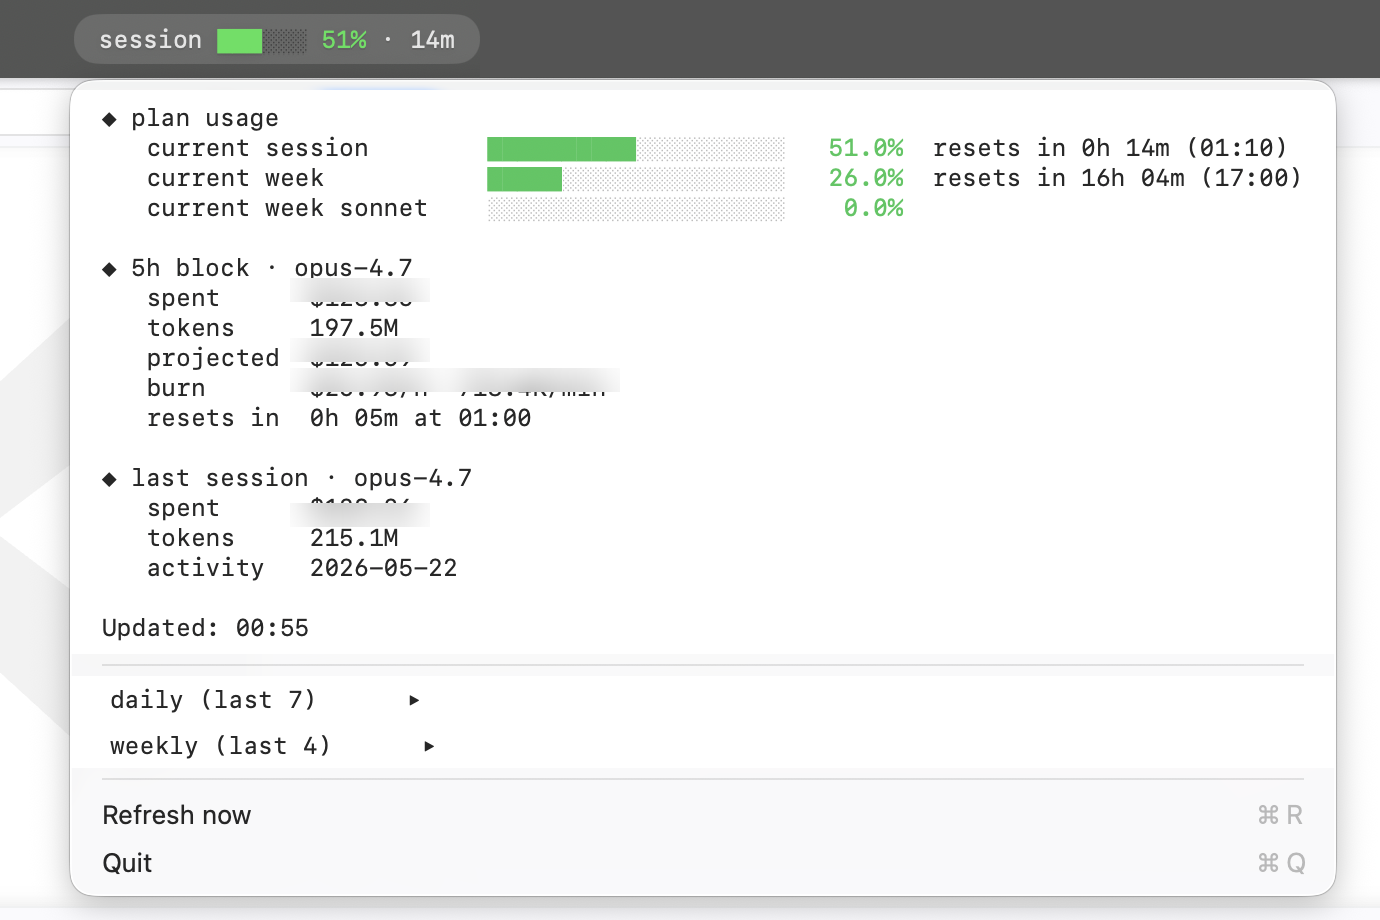
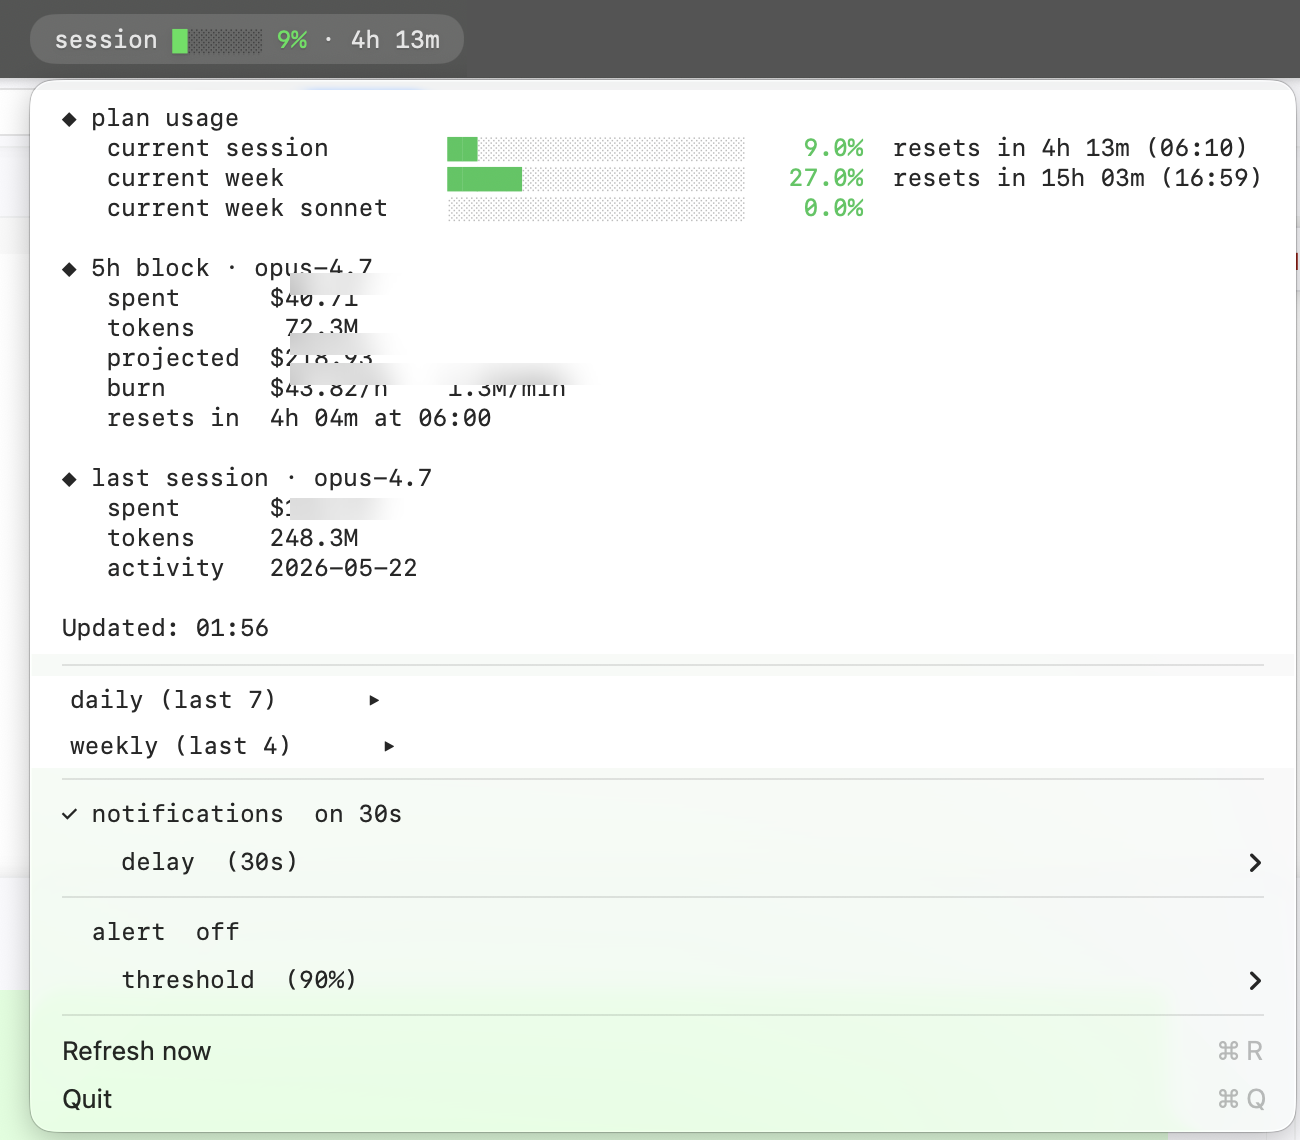
claude-usage-bar: stop committing the binary, distribute via Releases
The pre-built universal binary was bloating git history (one revision
per code change, ~300KB each) and not really reviewable in diffs.
Drop it from the repo and add it to .gitignore.

install.sh now decides between two paths at runtime:
- if `swiftc` is on PATH, build a universal binary from source
- otherwise, download the artifact from the latest GitLab Release of
  this repo via curl

Both --build and --download are exposed as explicit overrides for
power users / CI.

Bumped README and Requirements list to match: the user picks either
Xcode Command Line Tools (build) or just curl (download). Refreshed
the screenshot to show the corrected status-bar formatting (4h 13m
instead of 259m) and the new notifications/alert toggles.

Changed region(s): [[0.0, 0.0304, 1.0, 1.0], [0.2154, 0.8522, 0.2769, 0.8826], [0.2769, 0.7609, 0.3077, 0.7913]]

diff --git a/main.swift b/main.swift
@@ -186,12 +186,12 @@ class App: NSObject, NSApplicationDelegate, NSMenuDelegate {
             title.append(plain("session "))
             title.append(makeBar(pct: pct, width: 6))
             title.append(coloredText(String(format: " %.0f%%", pct), color: barColor(pct)))
-            title.append(plain(String(format: " · %dm", m)))
+            title.append(plain(" · " + formatResetMinutes(m)))
             statusItem.button?.attributedTitle = title
         } else if let a = active {
             let cost = a["costUSD"] as? Double ?? 0
             let remMin = (a["projection"] as? [String: Any])?["remainingMinutes"] as? Int ?? 0
-            statusItem.button?.title = String(format: "$%.2f · %dm", cost, remMin)
+            statusItem.button?.title = String(format: "$%.2f · ", cost) + formatResetMinutes(remMin)
         } else {
             statusItem.button?.title = "claude —"
         }
@@ -539,6 +539,13 @@ class App: NSObject, NSApplicationDelegate, NSMenuDelegate {
     func formatLocalTime(iso: String) -> String? {
         guard let d = Self.isoIn.date(from: iso) ?? ISO8601DateFormatter().date(from: iso) else { return nil }
         let f = DateFormatter(); f.dateFormat = "HH:mm"; return f.string(from: d)
+    }
+
+    /// Human-friendly "Xh YYm" / "Nm" for reset countdown. Used in the
+    /// status bar title to keep it readable when the window has hours left.
+    func formatResetMinutes(_ m: Int) -> String {
+        if m < 60 { return "\(m)m" }
+        return String(format: "%dh %02dm", m / 60, m % 60)
     }
 
     func minutesUntil(iso: String) -> Int? {

diff --git a/README.md b/README.md
@@ -35,25 +35,31 @@ cd claude-usage-bar
 
 That:
 
-1. Checks prerequisites (`python3`, `npx`/`ccusage`, and `swiftc` only if a rebuild is needed) and exits with a clear error if anything is missing.
+1. Checks prerequisites (`python3`, `jq`, `npx`/`ccusage`, plus `curl` or `swiftc` depending on path) and exits with a clear error if anything is missing.
 2. Triggers the macOS keychain prompt so you can click **Always Allow** during install rather than at first widget launch.
-3. Uses the committed pre-built universal binary (arm64 + x86_64) unless `main.swift` is newer or you pass `--build`. So most installs skip the Swift toolchain entirely.
+3. Gets the binary one of two ways:
+   - **`swiftc` available** (Xcode Command Line Tools installed) → builds a universal binary from source.
+   - **`swiftc` not available** → downloads the pre-built universal binary from this repo's [latest GitHub Release](https://github.com/meduzkin/claude-usage-bar/releases/latest).
 4. Optionally registers a LaunchAgent at `~/Library/LaunchAgents/com.local.claude-usage-bar.plist` so the widget starts at login.
 
 Flags:
 
 - `./install.sh --autostart` — non-interactive, installs the LaunchAgent without prompting.
-- `./install.sh --build` — force a fresh build even if the pre-built binary is up to date.
+- `./install.sh --build` — force build from source (requires `swiftc`).
+- `./install.sh --download` — skip building, always pull the release artifact.
 
 To remove: `./uninstall.sh` (stops the widget and removes the LaunchAgent; the binary and keychain ACL stay).
 
 ## Requirements
 
 - macOS (uses Cocoa / `NSStatusItem`)
-- An active Claude Code login on this Mac — that's what creates the `Claude Code-credentials` keychain entry the widget reads
+- An active Claude Code login on this Mac — creates the `Claude Code-credentials` keychain entry the widget reads
 - `python3` on `PATH` (parses keychain JSON and merges ccusage output)
+- `jq` on `PATH` (used by the notification hook scripts)
 - `node` / `npx` on `PATH` (for [`ccusage`](https://www.npmjs.com/package/ccusage); a globally installed `ccusage` is preferred and faster)
-- Swift toolchain (`xcode-select --install`) — **only** if you intend to rebuild from source; the repo ships a pre-built universal binary
+- One of:
+  - **Swift toolchain** (`xcode-select --install`) — for `install.sh` to build from source. About 1 GB on disk; the install itself takes a couple of seconds after the toolchain is in place.
+  - **`curl`** — for `install.sh` to download the pre-built universal binary from the [latest GitHub Release](https://github.com/meduzkin/claude-usage-bar/releases/latest). No Xcode needed.
 
 ## How auth works
 